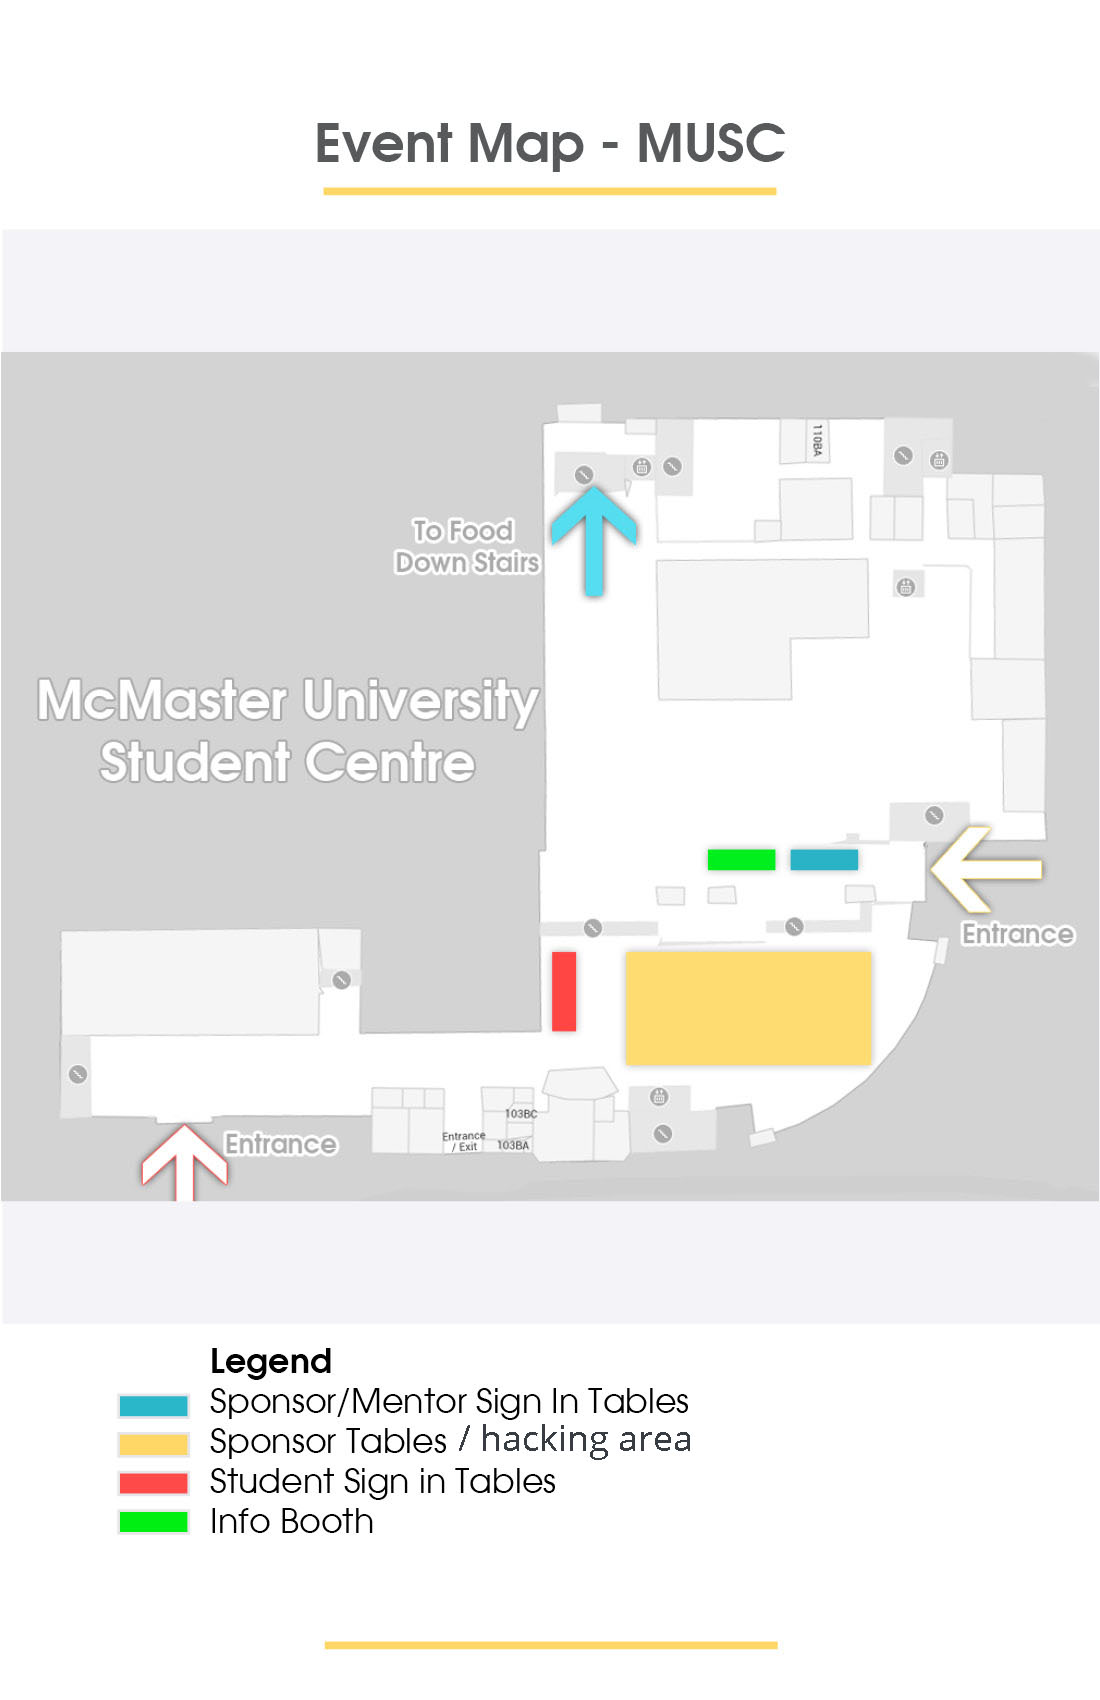
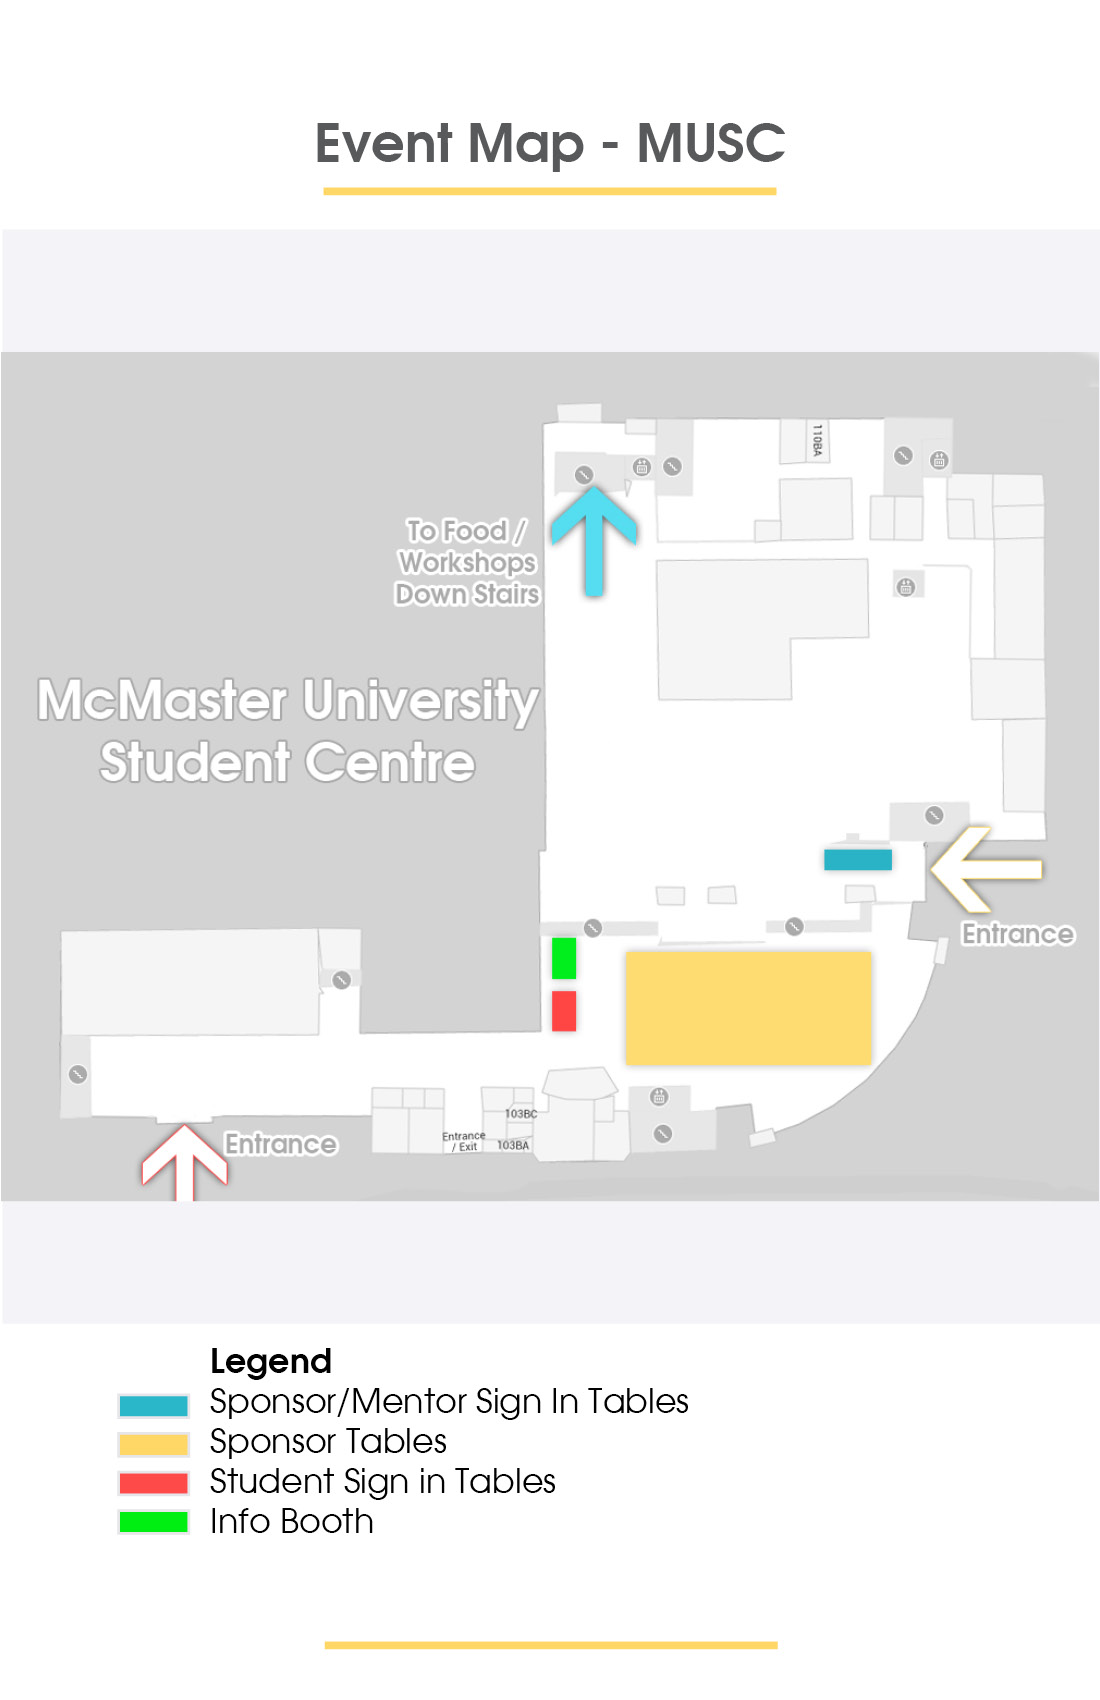
Update schedule and maps.

diff --git a/live/prizelist.html b/live/prizelist.html
@@ -5,6 +5,7 @@
 		<title>DeltaHacks II</title>
 		<meta charset="utf-8" />
 		<meta name="viewport" content="width=device-width, initial-scale=1" />
+		<!--[if lte IE 8]><script src="assets/js/ie/html5shiv.js"></script><![endif]-->
 		<link rel="stylesheet" href="../assets/css/main.css" />
         <link rel="stylesheet" href="../assets/css/font-awesome.min.css" />
         <script type="text/javascript" src="https://ajax.googleapis.com/ajax/libs/angularjs/1.5.0-rc.0/angular.min.js"></script>
@@ -13,9 +14,9 @@
         <script type="text/javascript" src="app.js"></script>
 	</head>
 	<body class="landing" ng-controller="AnnouncementController as a">
-
 		<!-- Page Wrapper -->
 			<div id="page-wrapper">
+
                 <!-- Header -->
                 <header id="header">
                     <h1><a href="/live">DeltaHacks II Live</a></h1>
@@ -40,62 +41,27 @@
                         </ul>
                     </nav>
                 </header>
+            <!-- FAQ -->
+                <section id="faq" class="wrapper style2 special">
+                    <div class="inner">
+                        <header class="major">
+                        <h2>Prizes</h2>
+                                <div class="row">
+                                <p>
+                                See <a href="http://deltahacks2.devpost.com/">Devpost</a> for a list of challenges and prizes
+                                </p>
+                                </div>
 
-                    <section class="eventmaps wrapper" style="margin-top:5%;">
-                        <div class="inner">
-                            <h1>Maps</h1>
-                        </div>
-                        <div class="inner row">
-                            <div class="6u 12u$(medium)">
-                                <h1>Campus Map</h1>
-                                <img src="map/campus-map.jpg" class="img-responsive"/>
-                            </div>
+                                <h2 id="credits">API Credits</h2>
+                                <div class="row">
+                                <p>
+                                
+                                </p>
+                                </div>
+                                </header>
+                                </div>
+                                </section>
 
-                            <div class="6u 12u$(medium)">
-                                <h1>Student Centre 1st Floor</h1>
-                                <img src="map/Musc1.jpg" class="img-responsive"/>
-                            </div>
-
-                            <div class="6u 12u$(medium)">
-                                <h1>Student Centre 2nd Floor</h1>
-                                <img src="map/Musc2.jpg" class="img-responsive"/>
-                            </div>
-
-                            <div class="6u 12u$(medium)">
-                                <h1>Student Centre 3rd Floor</h1>
-                                <img src="map/Musc3.jpg" class="img-responsive"/>
-                            </div>
-                        </div>
-                    </section>
-
-                    <section id="food" class="eventmaps wrapper">
-                        <div class="inner">
-                            <h1>2 Food Areas (TSH Basement)</h1>
-                        </div>
-                        <div class="inner row">
-                            <h1>TSH B128</h1>
-                            <h1>1280 Restaurant</h1>
-                            <img src="map/TSHFood.jpg" class="img-responsive" style="width=0px"/>
-                        </div>
-                    </section>
-
-                    <section class="eventmaps wrapper">
-                        <div class="inner">
-                            <h1>Workshops</h1>
-                        </div>
-                        <div class="inner row">
-                            <div class="6u 12u$(medium)">
-                                <h1>CNH 104</h1>
-                                <img src="map/workshop-cnh104.jpg" class="img-responsive"/>
-                            </div>
-
-                            <div class="6u 12u$(medium)">
-                                <h1>TSH B128, TSH B105</h1>
-                                <img src="map/workshop-tshb105.jpg" class="img-responsive"/>
-                            </div>
-                        </div>
-                    </section>
-                
 		<!-- Footer -->
 		<footer id="footer">
 			<ul class="copyright">
@@ -110,10 +76,9 @@
 				<li><a href="http://medium.com/hackitmac-blog" class="icon fa-medium"><span class="label">Medium</span></a></li>
 			</ul>
 
-			<div class="col-lg-8 col-lg-offset-2 text-center">
+<!-- 			<div class="col-lg-8 col-lg-offset-2 text-center">
 	            <p>© 2016 DeltaHacks. All Rights Reserved</p>
-	            <!--<p>Built with <i class="fa fa-heart"></i> in Canada.<br>Copyright © 2015 DeltaHacks</p>-->
-    		</div>
+    		</div> -->
 
 		</footer>
 

diff --git a/live/index.html b/live/index.html
@@ -47,7 +47,7 @@
                     <h1><a href="/live">DeltaHacks II Live</a></h1>
                     <nav id="nav">
                         <ul>
-                            <!-- <li><a class="menuMobile" href="/live/prizelist.html">Prize List</a></li> -->
+                            <li><a class="menuMobile" href="/live/prizelist.html">Prize List</a></li>
                             <li><a class="menuMobile" href="/live/eventmaps.html">Event Maps</a></li>
                             <li><a class="menuMobile" href="/live/schedule.html">Schedule</a></li>
                             <li><a class="menuMobile" href="/live/info.html">Info</a></li>
@@ -56,7 +56,7 @@
                                 <a href="#menu" class="menuToggle"><span></span></a>
                                 <div id="menu">
                                     <ul>
-                                        <!-- <li><a href="/live/prizelist.html">Prize List</a></li> -->
+                                        <li><a href="/live/prizelist.html">Prize List</a></li>
                                         <li><a href="/live/eventmaps.html">Event Maps</a></li>
                                         <li><a href="/live/schedule.html">Schedule</a></li>
                                         <li><a href="/live/info.html">Info</a></li>
@@ -95,9 +95,13 @@
                                     </p>
 
                                     <p>
+                                        Submissions: <a href="http://deltahacks2.devpost.com/">http://deltahacks2.devpost.com/</a>
+                                    </p>
+
+                                    <p>
                                     <a href="/live/schedule.html#workshops">Workshops</a><br>
                                     <a href="/live/info.html#hardware">Hardware Rental</a><br>
-                                    <a href="">API credits</a>
+                                    <a href="/live/prizelist.html#credits">API credits</a>
                                     </p>
 
                                     <h4>Mentor App</h4>

diff --git a/live/schedule.html b/live/schedule.html
@@ -22,7 +22,7 @@
                     <h1><a href="/live">DeltaHacks II Live</a></h1>
                     <nav id="nav">
                         <ul>
-                            <!-- <li><a class="menuMobile" href="/live/prizelist.html">Prize List</a></li> -->
+                            <li><a class="menuMobile" href="/live/prizelist.html">Prize List</a></li>
                             <li><a class="menuMobile" href="/live/eventmaps.html">Event Maps</a></li>
                             <li><a class="menuMobile" href="/live/schedule.html">Schedule</a></li>
                             <li><a class="menuMobile" href="/live/info.html">Info</a></li>
@@ -31,7 +31,7 @@
                                 <a href="#menu" class="menuToggle"><span></span></a>
                                 <div id="menu">
                                     <ul>
-                                        <!-- <li><a href="/live/prizelist.html">Prize List</a></li> -->
+                                        <li><a href="/live/prizelist.html">Prize List</a></li>
                                         <li><a href="/live/eventmaps.html">Event Maps</a></li>
                                         <li><a href="/live/schedule.html">Schedule</a></li>
                                         <li><a href="/live/info.html">Info</a></li>
@@ -83,7 +83,7 @@
                                         <tr>
                                             <td>12:00pm-12:30pm</td>
                                             <td>General Team forming<br>(non healthcare)</td>
-                                            <td>MDCL 1st Floor</td>
+                                            <td>Student Centre 1st Floor Sponsor Area</td>
                                         </tr>
                                         <tr>
                                             <td>12:30pm-1:30pm</td>

diff --git a/live/info.html b/live/info.html
@@ -22,7 +22,7 @@
                     <h1><a href="/live">DeltaHacks II Live</a></h1>
                     <nav id="nav">
                         <ul>
-                            <!-- <li><a class="menuMobile" href="/live/prizelist.html">Prize List</a></li> -->
+                            <li><a class="menuMobile" href="/live/prizelist.html">Prize List</a></li>
                             <li><a class="menuMobile" href="/live/eventmaps.html">Event Maps</a></li>
                             <li><a class="menuMobile" href="/live/schedule.html">Schedule</a></li>
                             <li><a class="menuMobile" href="/live/info.html">Info</a></li>
@@ -31,7 +31,7 @@
                                 <a href="#menu" class="menuToggle"><span></span></a>
                                 <div id="menu">
                                     <ul>
-                                        <!-- <li><a href="/live/prizelist.html">Prize List</a></li> -->
+                                        <li><a href="/live/prizelist.html">Prize List</a></li>
                                         <li><a href="/live/eventmaps.html">Event Maps</a></li>
                                         <li><a href="/live/schedule.html">Schedule</a></li>
                                         <li><a href="/live/info.html">Info</a></li>
